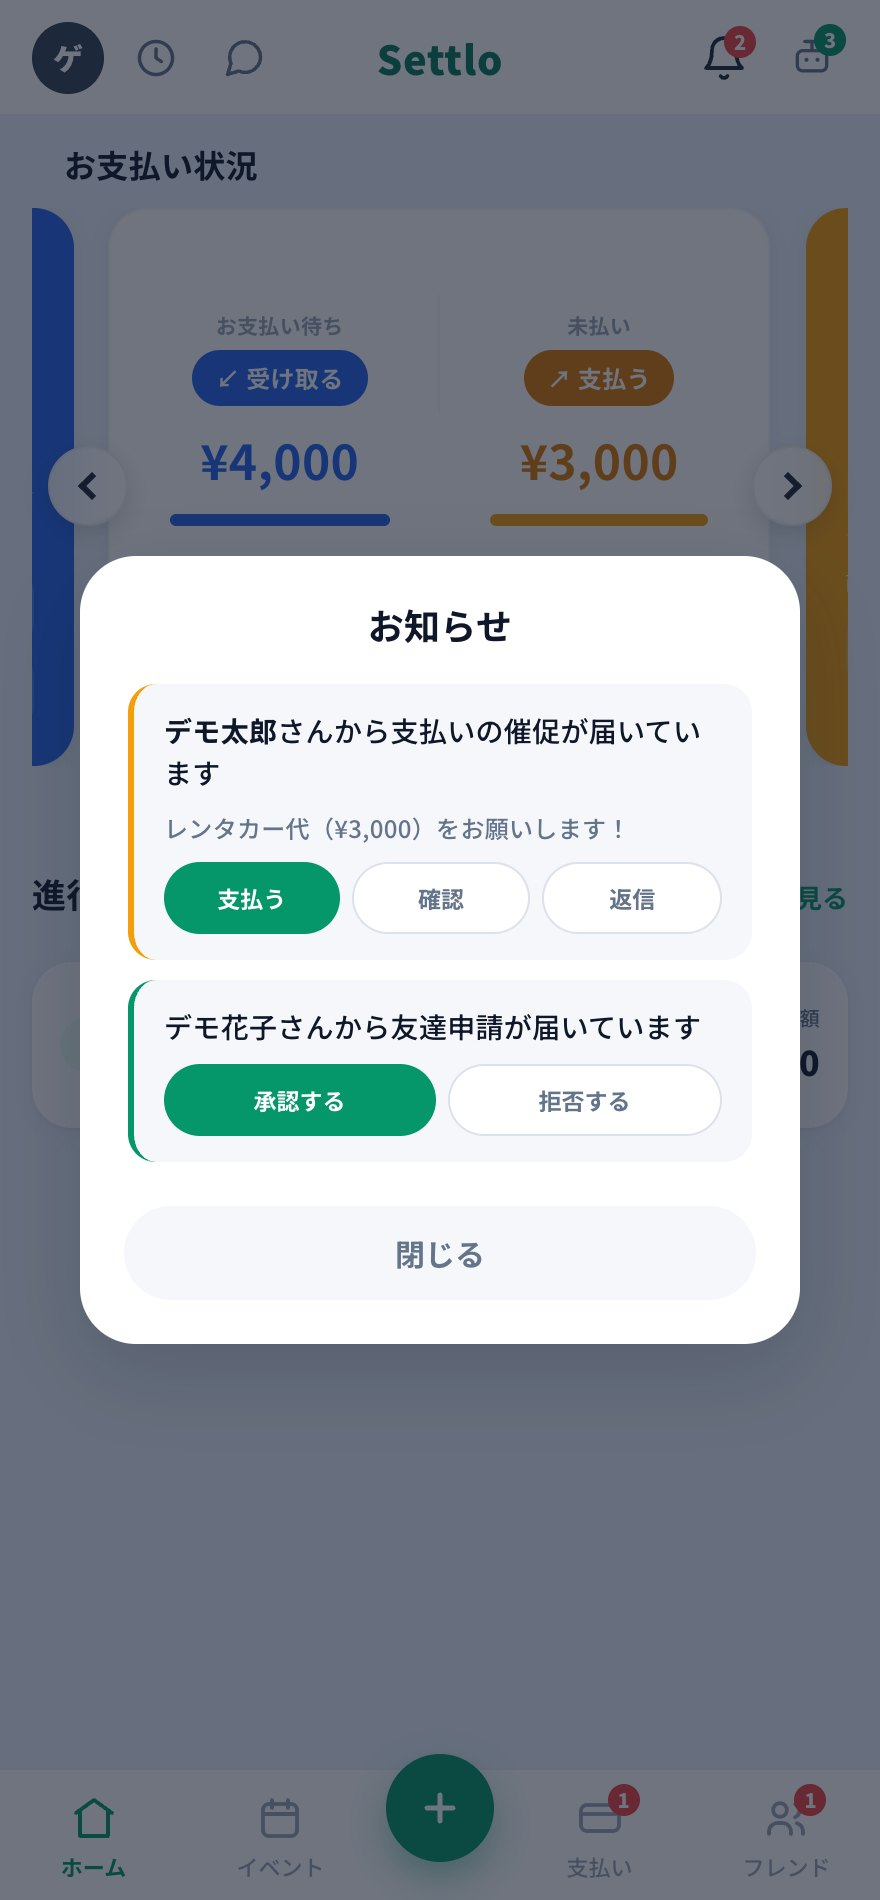
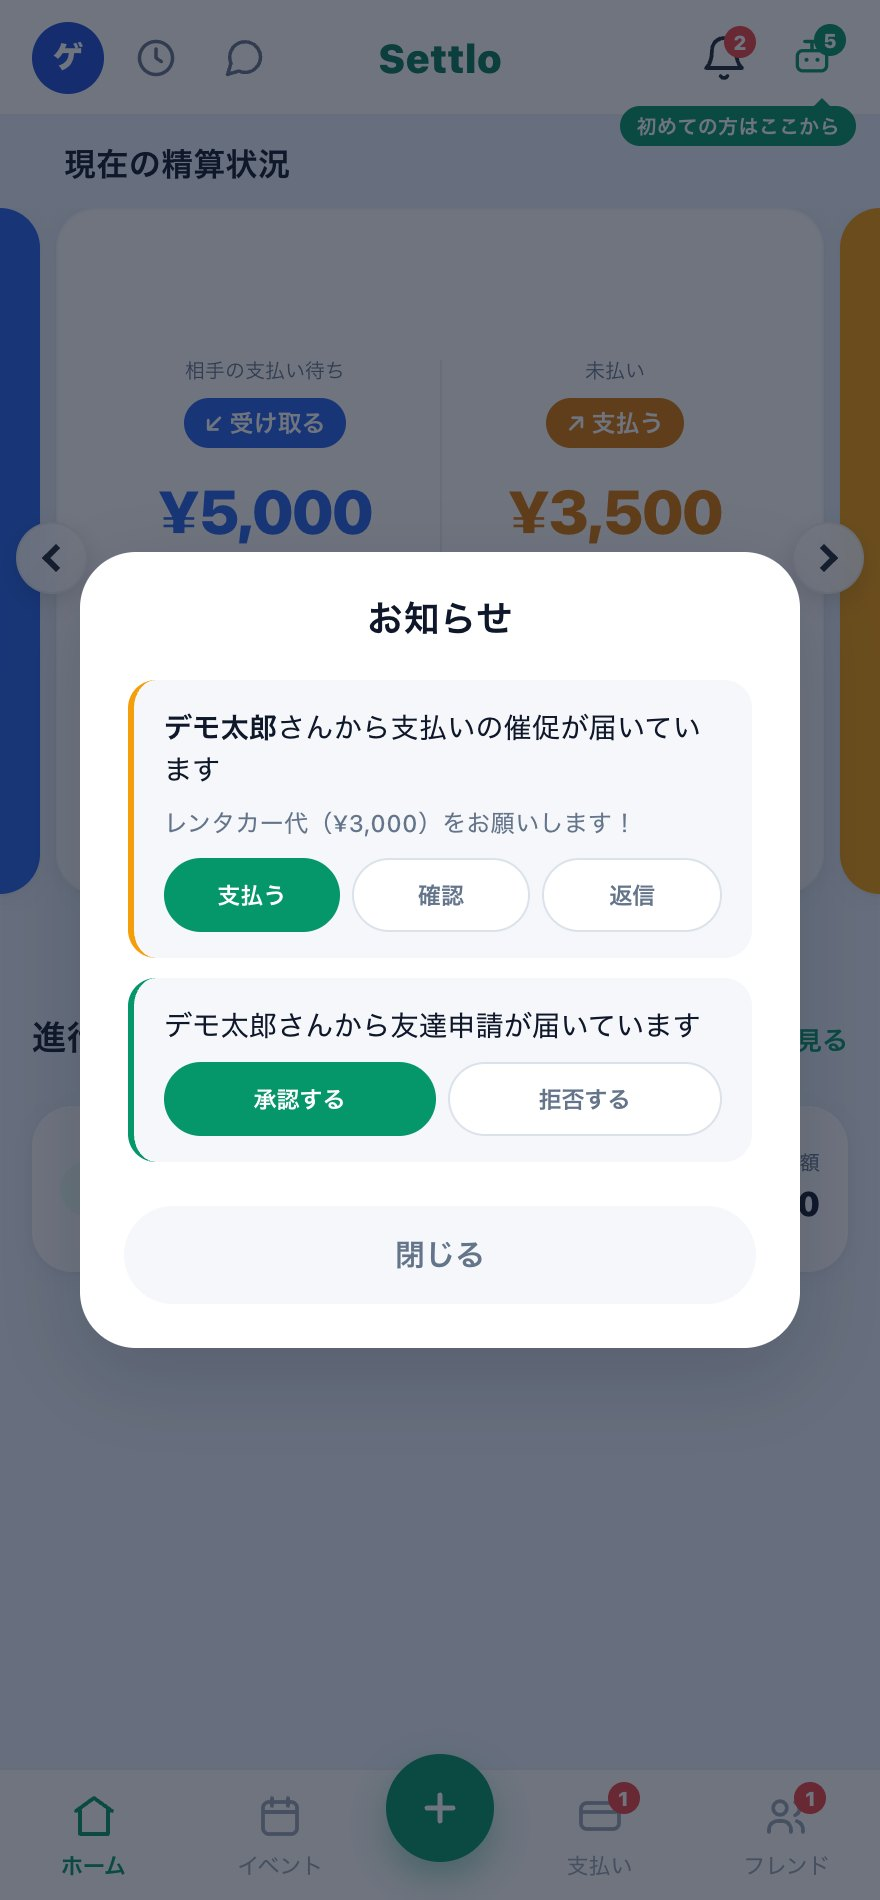
update: Settloを技育博出展後の最新版に更新（機能と設計の説明・画面写真・担当の記述・受賞名を企業協賛賞に統一）、好きなものに≒JOYを追加、縦長スクショの表示とライトボックスの表記を調整

diff --git a/src/data/works.ts b/src/data/works.ts
@@ -35,7 +35,7 @@ export interface Work {
   stageVideos?: { label: string; src: string }[]; // ステージ別の短い動画（3カラム表示。任意）
   gallery?: string[];     // 複数画像（ライトボックスで拡大閲覧。スライド資料・スクショ等）
   audio?: { title: string; src: string; note?: string }[]; // 試聴用の音源（モーダルにプレイヤー表示）
-  slideGroups?: { title: string; images: string[] }[];     // 発表/種類ごとに分けた横スクロールのスライド群
+  slideGroups?: { title: string; images: string[]; portrait?: boolean }[];  // 発表/種類ごとに分けた横スクロールのスライド群（portrait:true＝スマホの縦長スクショ用の縦枠）
   featured?: boolean;     // トップのBentoで大きく見せる
   link?: string;          // 外部/別サイトへのリンク（Web作品など）
   links?: { label: string; href: string }[]; // 掲載メディア等の外部リンク（複数・任意）
@@ -369,17 +369,18 @@ export const works: Work[] = [
     slug: "settlo",
     title: "Settlo（セトロ）― レシートAI割り勘アプリ",
     category: "web",
-    summary: "レシートを撮るだけで、旅行や飲み会の割り勘から精算までを完結できるアプリ。サークル内ハッカソン「SysHack（シスハック）」での制作をきっかけに5人チームで開発を継続し、学生団体経由で企業賞も受賞。技育博2026にもエントリーしている。",
+    summary: "レシートを撮るだけで、旅行や飲み会の割り勘から精算までを完結できるアプリ。サークル内ハッカソン「SysHack（シスハック）」での制作をきっかけに5人で開発を始め、展示準備は3人体制で進めた。同ハッカソンでは企業協賛賞を受賞。技育博2026 Vol.2（2026年9月・虎ノ門ヒルズ）に出展した。",
     goal: "旅行や飲み会での立て替えは、あとから“誰がいくら払うか”を計算するのが面倒で、精算がうやむやになりがち。その“お金のモヤモヤ”をゼロにするのが狙い。レシートを撮るだけで記録が終わり、誰でも迷わず割り勘から精算まで完了できる——そんな体験をめざした。",
-    approach: "5人チームでの開発で、自分はUI・フロントエンドを中心に、レシートのAI読み取りなどのバックエンドや発表・登壇も担当した。ホームを開くと、受け取る額・支払う額・今月の収支がひと目でわかる。主な機能は、①レシートを撮ると Gemini（2.5 Flash）のOCRが店名・金額・消費税まで自動入力（手入力にも対応）、②全員で均等・金額を指定・商品ごとに支払う人を選ぶ、の3方式の割り勘、③食事・カフェ・交通などをアイコンで分類、④招待コードや「＋招待」でのイベント・参加者管理と、誰が誰にいくら払うかが残り件数つきで見える精算サマリー、⑤相手ごとに全イベントの貸し借りを相殺して、送金の回数を最小にまとめる「まとめて精算」、⑥PayPayリンクでの請求と「支払いを催促する」通知。現金でやり取りした時は「受け取った／支払った」を相手が承認して完了する二段階の精算、⑦承認待ちを自分側・相手側・履歴に分けて確認できる一覧、⑧「〇〇の支払いの件」単位で会話できるチャット、⑨フレンド申請・承認と、友達ごとの貸し借りのまとめ、⑩支払い・受け取り・精算済みで絞り込めるお支払い履歴。さらに、“次にやること”を金額つきで教える「お支払いアシスタント」、削除したイベントや取引を7日間だけ預かって戻せるゴミ箱、実際のデモ画面で1手ずつ説明するヘルプ（画面ごとの解説と画面遷移マップ、順に案内する使い方ツアー）、登録なしで試せるゲストデモ、ホーム画面に入れて使える PWA 対応まで用意した。技術は Vue 3（script setup）＋Vite、ルーティングは Vue Router、バックエンドは Firebase（Authentication／Firestore／Cloud Functions／Hosting／FCM）で、精算ロジックは composable に切り出し、APIキーはサーバーレス関数側に置いてフロントには出さない。スマホのスワイプUIとPCレスポンシブに両対応している。",
-    tools: ["Vue 3 / Vite", "Firebase", "Gemini 2.5 Flash（OCR）", "PWA"],
+    approach: "5人で開発を始め、展示は3人体制。自分はイベント詳細・精算ロジックとデータ設計、レシートのAI読み取りを担当し、UI・ホーム画面やフレンド機能はチームで分担した。ホームには、いま受け取る額・支払う額が残り件数つきで並び、相手の返事待ちは別枠。主な機能は、①レシートを撮ると Gemini（2.5 Flash）が店名・金額・消費税・品目まで自動入力し、1回に5枚までまとめて読み取れる（手入力にも対応）、②全員で均等・金額を指定・商品ごとに支払う人を選ぶ、の3方式の割り勘、③食事・カフェ・コンビニ・交通などをアイコンで分ける支払いジャンル、④招待コードや「＋招待」でのイベント・参加者管理と、未精算の残り・完了率が見える精算の進捗表示、⑤送金の回数が最小で、できるだけ100円単位で割り切れる金額になる「まとめて精算」2種類（イベント参加者全員を一度に相殺／相手ごとに全イベントをまたいで相殺）、⑥フレンド申請・承認と、フレンド詳細から相手ごとの貸し借り・取引履歴をまとめて確認・精算できるフレンド機能、⑦PayPayリンクでの請求と催促通知、現金は「受け取った／支払った」を相手が承認して完了する二段階の精算、⑧承認リクエスト・催促・拒否を一言メッセージつきでアプリ内＋プッシュに届ける通知と、承認する分・相手待ち・履歴を分けた承認待ちビュー、⑨「〇〇の支払いの件」単位で相談できるチャット（既読・未読つき）と、会話を読んで返信案を3つ出す「AIと返信を考える」（PayPayが使える・いつまでに払うなどの条件に沿わせられる。AIには名前を渡さず仮のラベルに置き換える）、⑩相手が「受け取っていない」と戻した差し戻しを普通の未払いと分けて表示、⑪支払い・受け取り・精算済みで絞り込めるお支払い履歴と、削除した取引やイベントを7日だけ預かる「元に戻す」。ほかに、次の一手を金額つきで教えるお支払いアシスタント、ボタンを1つずつ光らせて案内する「初めての方へ」、登録なしのゲストデモ、PWA も用意した。技術は Vue 3（script setup）＋Vite、Vue Router（ハッシュルーティング）、バックエンドは Firebase（Authentication／Firestore／Cloud Functions／Hosting／FCM）。設計面では、金額の正データは取引1本に決めて二重に持たず、お金を確定させる処理はサーバー側だけに置き、精算に予約された取引は編集も削除もできないようにした。計算は画面から切り離した純粋関数にし、テストで金額と状態遷移を固定。レシートの読み取りと返信案の生成は Cloud Functions 側に置いた。",
+    tools: ["Vue 3 / Vite", "Firebase（Firestore / Cloud Functions / FCM）", "Gemini 2.5 Flash（レシート読み取り・返信案）", "PWA"],
     thumb: "/assets/works/settlo-event.jpg",
     contain: true,
-    status: "ハッカソン企業賞・開発中",
+    status: "ハッカソン企業協賛賞・技育博2026出展",
     link: "https://settlo-app.web.app",
     slideGroups: [
-      { title: "記録する・まとめて精算する（ゲストデモの実画面）", images: ["/assets/works/settlo-home.jpg", "/assets/works/settlo-event.jpg", "/assets/works/settlo-pay.jpg"] },
-      { title: "迷わせない仕組み（アシスタント・お知らせ・使い方ガイド・フレンド）", images: ["/assets/works/settlo-assistant.jpg", "/assets/works/settlo-notif.jpg", "/assets/works/settlo-guide.jpg", "/assets/works/settlo-friend.jpg"] },
+      { title: "記録する・まとめて精算する（ゲストデモの実画面）", images: ["/assets/works/settlo-home.jpg", "/assets/works/settlo-event.jpg", "/assets/works/settlo-pay.jpg"], portrait: true },
+      { title: "迷わせない仕組み（アシスタント・お知らせ・使い方ガイド・フレンド）", images: ["/assets/works/settlo-assistant.jpg", "/assets/works/settlo-notif.jpg", "/assets/works/settlo-guide.jpg", "/assets/works/settlo-friend.jpg"], portrait: true },
+      { title: "相談する・AIと返信を考える（支払いの件ごとのチャット／AIが会話を読んで出した返信案）", images: ["/assets/works/settlo-chat.jpg", "/assets/works/settlo-ai.jpg"], portrait: true },
     ],
   },
   {

diff --git a/DESIGN.md b/DESIGN.md
@@ -45,3 +45,14 @@
 - 見出し階層が明確（eyebrow → h2.big → lead）
 - `prefers-reduced-motion` を壊さない（base.cssが面倒を見る。無限アニメを新設するときだけ注意）
 - 画像は必ず実在パス（works.ts のもの）。リンク切れを作らない
+
+## データと事実の扱い（2026-09-23 追記）
+- **作品の正データは `src/data/works.ts` 1本**。作品ページ（`src/pages/works/[slug].astro`）・一覧・ヒーローの件数は全部ここから作る。
+- 一時的に出さない作品は `/* */` でコメントアウトする方式。**件数を数えるときはコメントアウト分を除く**：`ls -1 dist/works | grep -v index.html | wc -l`（＝ビルド後の作品ページ数）で確認する。`grep -c 'slug:'` は無効分も数えるので使わない。
+- 件数を文章に書くときは**ハードコードしない**。ヒーローの「◯作品ぜんぶ見る」は `works.length` 参照（`Hero.astro`）。README など手書きの箇所を触るときは、上のコマンドの実数と突き合わせる。
+- 実績カード（about）の大きい文字は4文字以上で自動的に小さくする（`hl-n--long`／`clamp(1.4rem, 2.2vw, 1.9rem)`）。長いラベルを入れても行送りが崩れない。
+- **スライド画像は横長（16:10）を既定にする**。スライド枠が横長（デスクトップ 416×260・モバイル 285×178）なので、縦長の画像をそのまま入れると左右が大きく空き、画面内の文字が読めない。PC画面・スライド資料・図はこの既定どおり横長で用意する。
+- **スマホアプリの縦長スクショは切らずに `portrait: true` を付ける**（`works.ts` の `slideGroups` のオプション）。タイル枠が縦（3:4）になり、`object-fit: cover; object-position: top center` で**画面の上6割ほどを大きく**見せる（`works/[slug].astro` の `.slide--tall`）。全体はクリックしたライトボックスで原寸（縦長のまま）見られるので、画像ファイル自体を切り抜かない。
+- **ライトボックスのキャプションに枚数を書かない**。`Lightbox.astro` は下部に固定のカウンター（`1 / 2`）を出すので、キャプションにも枚数を入れると長いキャプションの折り返しがカウンターに重なる。
+- `approach`（工夫したこと）は1つの `<p>` で描画される＝改行は効かない。**上限の目安は1200字**。これを超えるなら機能の列挙から削る。
+- 作品文に書く事実（受賞名・体制・機能・数値）は、必ず出典（各プロジェクトの README・ヘルプ画面・自分で残した記録）で裏づけを取る。裏づけが無いものは書かない。受賞と他の出来事を因果でつなげない。
